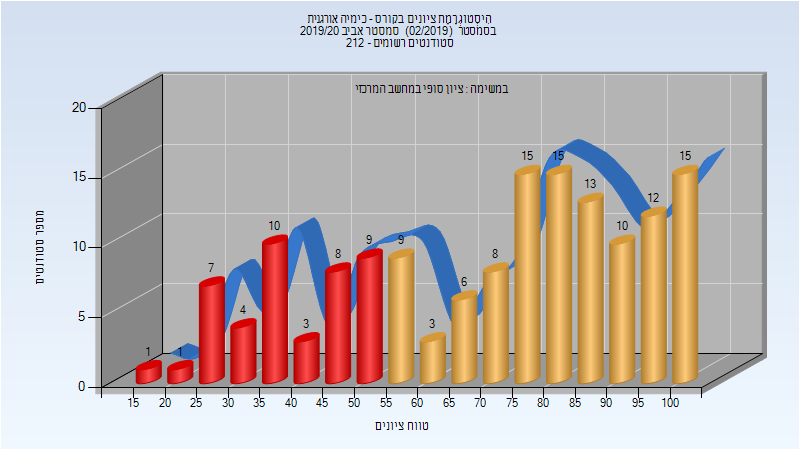
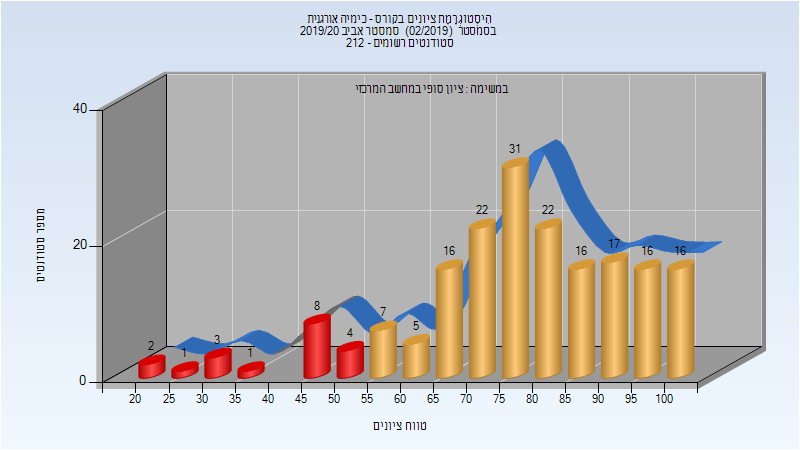
Deploy michael-maltsev/technion-histograms to github.com/michael-maltsev/technion-histograms.git:gh-pages

diff --git a/125801/index.html b/125801/index.html
@@ -1100,6 +1100,32 @@
 </tr>
 </tbody>
 </table>
+<h3>מבחן מועד ב'</h3>
+<p><img src="201902/Exam_B.png" alt="201902 Exam_B" /></p>
+<table>
+<thead>
+<tr>
+<th>סטודנטים</th>
+<th>עברו/נכשלו</th>
+<th>אחוז עוברים</th>
+<th>ציון מינימלי</th>
+<th>ציון מקסימלי</th>
+<th>ממוצע</th>
+<th>חציון</th>
+</tr>
+</thead>
+<tbody>
+<tr>
+<td>91</td>
+<td>70/21</td>
+<td>77</td>
+<td>15</td>
+<td>95</td>
+<td>62.363</td>
+<td>65</td>
+</tr>
+</tbody>
+</table>
 <h3>סופי מועד ב'</h3>
 <p><img src="201902/Final_B.png" alt="201902 Final_B" /></p>
 <table>
@@ -1142,13 +1168,13 @@
 </thead>
 <tbody>
 <tr>
-<td>149</td>
-<td>106/43</td>
-<td>71</td>
-<td>15</td>
+<td>187</td>
+<td>168/19</td>
+<td>90</td>
+<td>20</td>
 <td>100</td>
-<td>70.06</td>
-<td>77</td>
+<td>76.802</td>
+<td>78</td>
 </tr>
 </tbody>
 </table>

diff --git a/234128/index.html b/234128/index.html
@@ -93,12 +93,12 @@
 </thead>
 <tbody>
 <tr>
-<td>338</td>
-<td>308/30</td>
+<td>340</td>
+<td>309/31</td>
 <td>91</td>
-<td>26</td>
+<td>22</td>
 <td>100</td>
-<td>80.281</td>
+<td>80.174</td>
 <td>84</td>
 </tr>
 </tbody>

diff --git a/104013/index.html b/104013/index.html
@@ -2157,7 +2157,7 @@
 <td>90</td>
 <td>2</td>
 <td>100</td>
-<td>79.314</td>
+<td>79.325</td>
 <td>84</td>
 </tr>
 </tbody>

diff --git a/125801/README.md b/125801/README.md
@@ -334,6 +334,14 @@
 | ---- | ---- | ---- | ---- | ---- | ---- | ---- |
 | 149 | 106/43 | 71 | 15 | 100 | 70.06 | 77 |
 
+### מבחן מועד ב'
+
+![201902 Exam_B](201902/Exam_B.png)
+
+| סטודנטים | עברו/נכשלו | אחוז עוברים | ציון מינימלי | ציון מקסימלי | ממוצע | חציון |
+| ---- | ---- | ---- | ---- | ---- | ---- | ---- |
+| 91 | 70/21 | 77 | 15 | 95 | 62.363 | 65 |
+
 ### סופי מועד ב'
 
 ![201902 Final_B](201902/Final_B.png)
@@ -348,5 +356,5 @@
 
 | סטודנטים | עברו/נכשלו | אחוז עוברים | ציון מינימלי | ציון מקסימלי | ממוצע | חציון |
 | ---- | ---- | ---- | ---- | ---- | ---- | ---- |
-| 149 | 106/43 | 71 | 15 | 100 | 70.06 | 77 |
+| 187 | 168/19 | 90 | 20 | 100 | 76.802 | 78 |
 

diff --git a/234128/README.md b/234128/README.md
@@ -26,7 +26,7 @@
 
 | סטודנטים | עברו/נכשלו | אחוז עוברים | ציון מינימלי | ציון מקסימלי | ממוצע | חציון |
 | ---- | ---- | ---- | ---- | ---- | ---- | ---- |
-| 338 | 308/30 | 91 | 26 | 100 | 80.281 | 84 |
+| 340 | 309/31 | 91 | 22 | 100 | 80.174 | 84 |
 
 ## קיץ 2020
 

diff --git a/104013/README.md b/104013/README.md
@@ -678,5 +678,5 @@
 
 | סטודנטים | עברו/נכשלו | אחוז עוברים | ציון מינימלי | ציון מקסימלי | ממוצע | חציון |
 | ---- | ---- | ---- | ---- | ---- | ---- | ---- |
-| 455 | 411/44 | 90 | 2 | 100 | 79.314 | 84 |
+| 455 | 411/44 | 90 | 2 | 100 | 79.325 | 84 |
 
